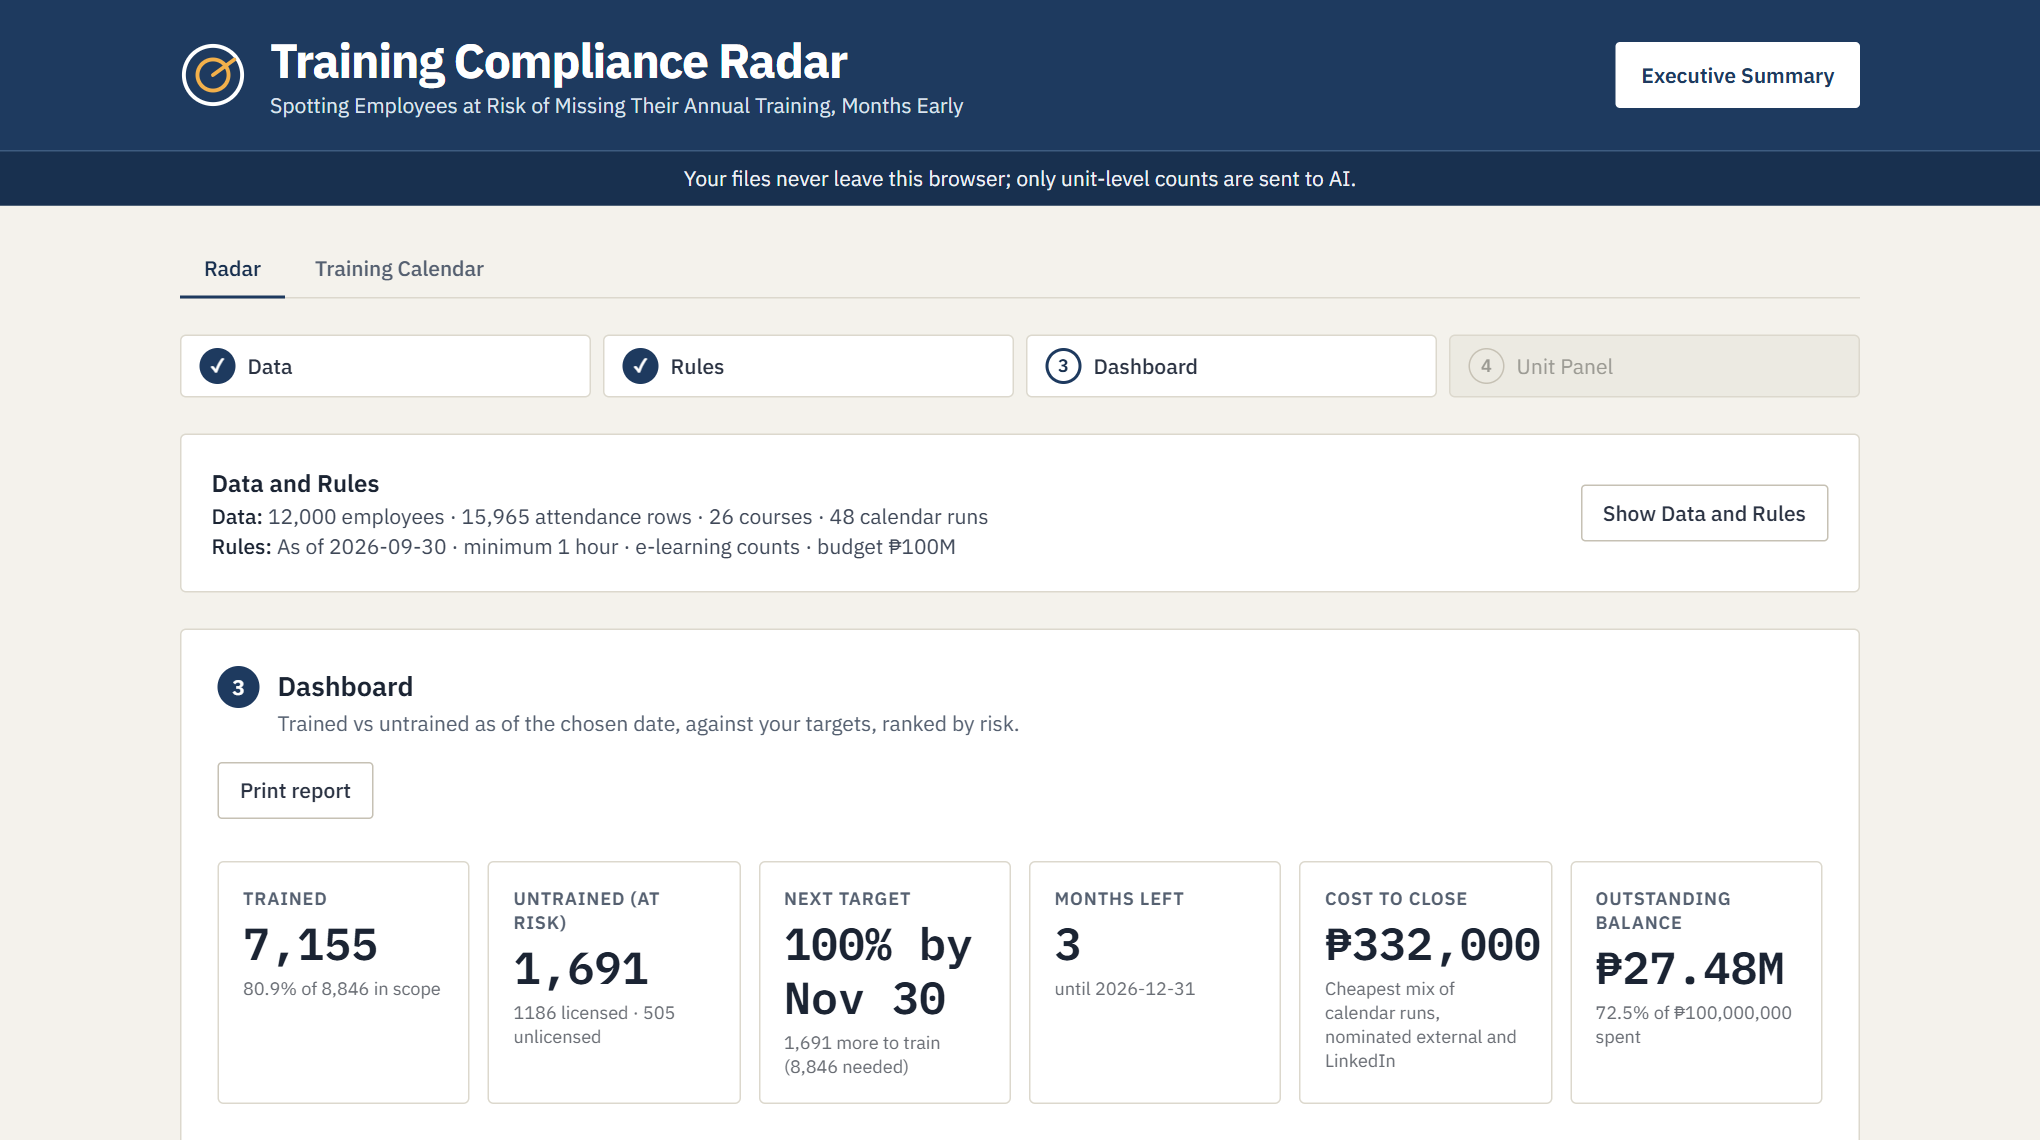
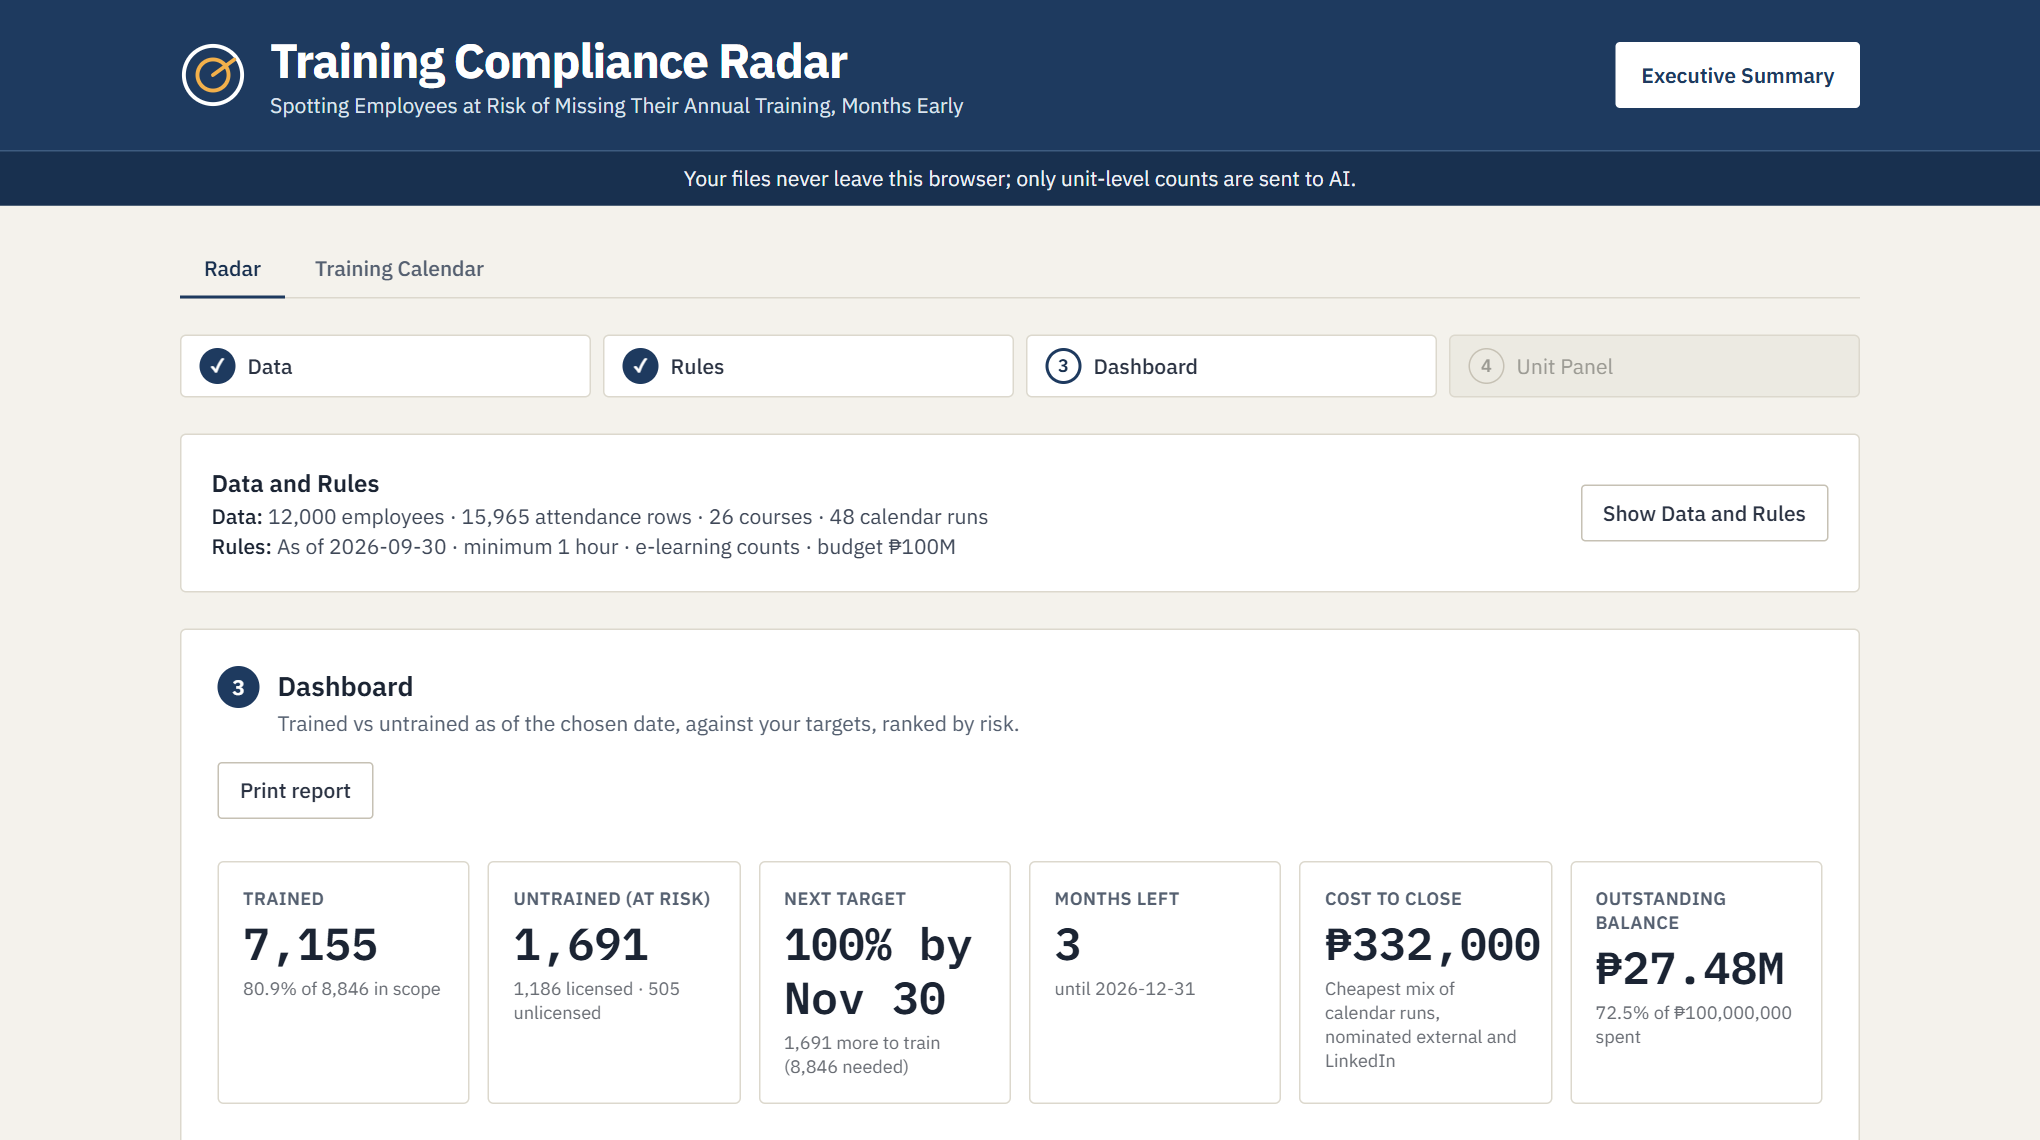
fix(ui): KPI label fits on one line; grouped licensed counts
"Untrained (at risk)" no longer wraps: the card labels use slightly
tighter letter spacing. The licensed / unlicensed counts get thousands
separators (1,186). Overview and dashboard screenshots retaken.

diff --git a/components/KpiCards.tsx b/components/KpiCards.tsx
@@ -16,7 +16,7 @@ function Kpi({
 }) {
   return (
     <div className="min-w-0 rounded-lg border border-slate-200 bg-white p-4">
-      <dt className="text-xs font-semibold uppercase tracking-wider text-slate-600">{label}</dt>
+      <dt className="text-xs font-semibold uppercase tracking-wide text-slate-600">{label}</dt>
       <dd className="mt-1">
         <span
           title={title}
@@ -106,7 +106,7 @@ export function KpiCards(props: Props) {
           {formatPercent(org.complianceRate)} of {fmt(org.covered)} in scope
         </Kpi>
         <Kpi label="Untrained (at risk)" value={fmt(org.atRisk)}>
-          {licensed} licensed · {org.atRisk - licensed} unlicensed
+          {fmt(licensed)} licensed · {fmt(org.atRisk - licensed)} unlicensed
         </Kpi>
         <TargetKpi analysis={props.analysis} />
         <Kpi label="Months left" value={org.monthsRemaining}>
